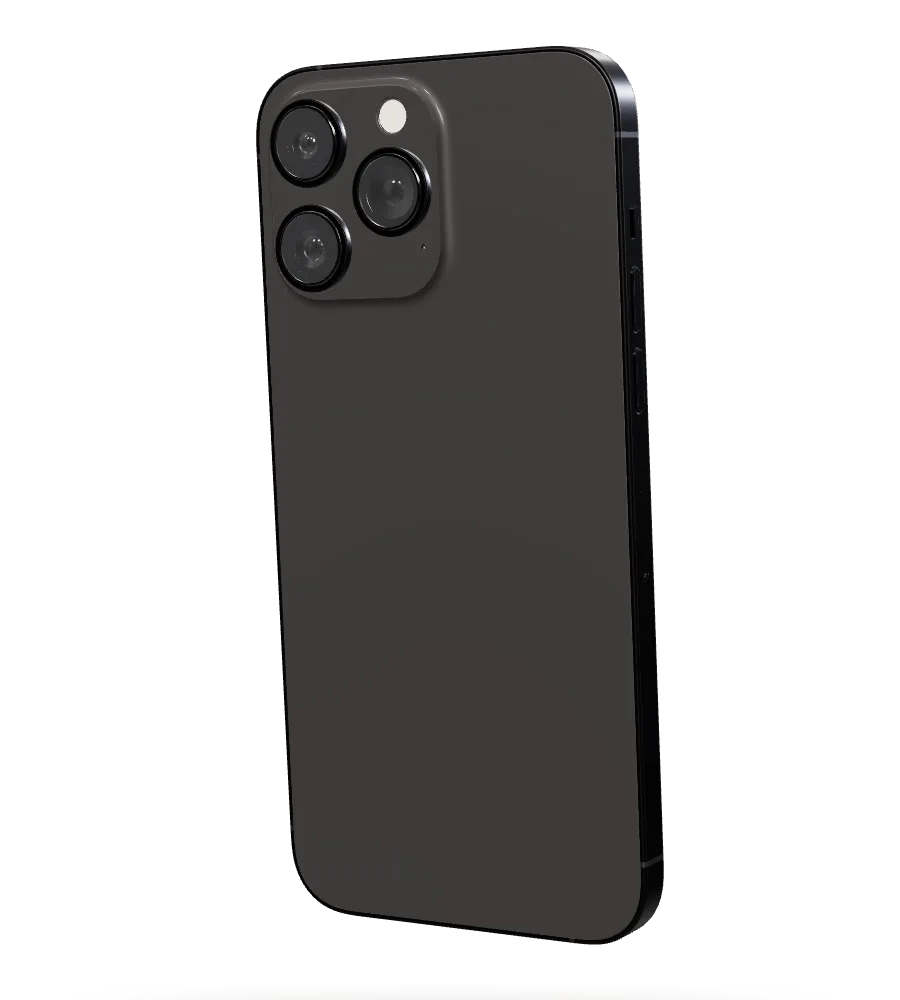
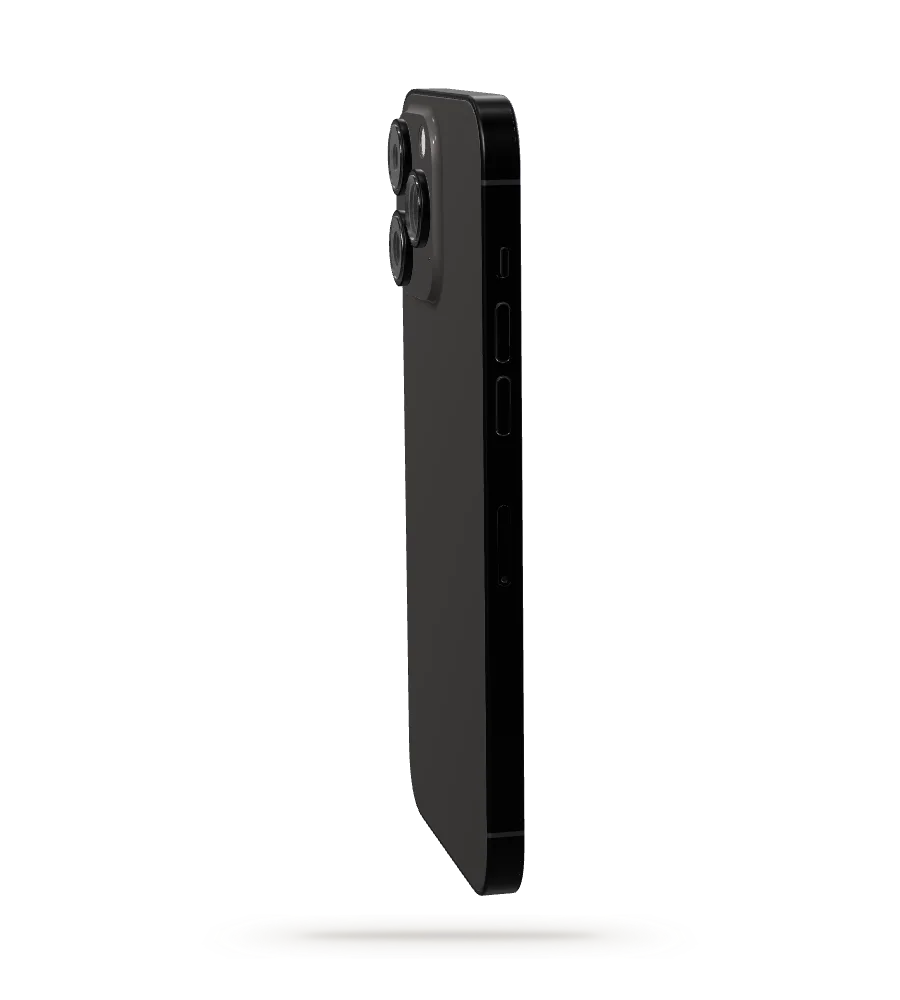
feat(home): Cartier-like fabric ground in the hero, smoother phone story
- FabricShade: replace the repeating curtain bands with long, soft,
  random shadow streaks from warped noise at two scales drifting in
  different directions, plus soft folds, over a fine paper/fabric grain
  tile; new matching still
- Phone story: softer spring so it glides to rest, a pre-roll so the
  phone is already turning as the section comes up the screen, wider
  overlapping phases and a slow camera drift so it never sits still
  between steps; new still at the pre-roll pose

Claude-Session: https://claude.ai/code/session_01RXhqBJTb3XXQtQqq3tabda

diff --git a/components/marketing/card3d/phoneScene.ts b/components/marketing/card3d/phoneScene.ts
@@ -280,6 +280,8 @@ export function createPhoneScene(canvas: HTMLCanvasElement, opts: { still?: numb
   let last = 0;
   let frame = 0;
 
+  let baseDist = 10;
+
   function resize() {
     const w = canvas.clientWidth;
     const h = canvas.clientHeight;
@@ -290,13 +292,23 @@ export function createPhoneScene(canvas: HTMLCanvasElement, opts: { still?: numb
     const half = Math.tan((camera.fov * Math.PI) / 360);
     const byHeight = (PH * 1.14) / (2 * half);
     const byWidth = (PH * 0.82) / (2 * half * camera.aspect);
-    camera.position.set(0, 0.15, Math.max(byHeight, byWidth));
-    camera.lookAt(0, 0, 0);
+    baseDist = Math.max(byHeight, byWidth);
     camera.updateProjectionMatrix();
     render();
   }
 
   function render() {
+    /* Before the story starts (p below 0, while the section is still
+       coming up the screen) the phone is already turning towards its
+       starting pose, so it's moving from the moment it appears and flows
+       straight into the story with no start. The camera also eases in a
+       little over the whole story, so the frame is never perfectly still
+       between steps. */
+    const pre = Math.min(0, p);
+    const along = clamp(p);
+    camera.position.set(0, 0.15 + pre * 0.4, baseDist * (1.06 - 0.06 * along - pre * 0.25));
+    camera.lookAt(0, pre * 0.3, 0);
+
     // 1. The card flies in on a curve, turning on all three axes as it
     //    comes, and taps the upper back of the phone (0 to 0.18). It rests
     //    there a beat, then sweeps off to the upper left (0.22 to 0.42)
@@ -305,7 +317,7 @@ export function createPhoneScene(canvas: HTMLCanvasElement, opts: { still?: numb
     const leave = soft(0.22, 0.42, p);
     const press = Math.sin(Math.PI * clamp((p - 0.16) / 0.07)) * 0.05;
     const hover = Math.sin(t * 1.1) * 0.025 * (1 - approach + leave);
-    const ax = curve(2.5, 1.5, 0.1, approach);
+    const ax = curve(2.5 - pre * 2, 1.5, 0.1, approach);
     const ay = curve(1.7, 0.5, 0.05, approach);
     const az = curve(1.8, 1.5, 0.72 - press, approach);
     card.group.position.set(
@@ -321,13 +333,13 @@ export function createPhoneScene(canvas: HTMLCanvasElement, opts: { still?: numb
     card.group.visible = leave < 0.999;
 
     // 2. The phone turns round from its back to its front as the screen
-    //    wakes (0.2 to 0.5), lifting a little on the way like it's picked
+    //    wakes (0.18 to 0.55), lifting a little on the way like it's picked
     //    up, then settles with a slow sway.
-    const reveal = soft(0.2, 0.5, p);
+    const reveal = soft(0.18, 0.55, p);
     const lift = Math.sin(Math.PI * reveal);
     const sway = Math.sin(t * 0.5) * 0.04;
-    turn.rotation.y = mix(Math.PI - 0.55, -0.22, reveal) + sway;
-    turn.rotation.x = mix(0.12, -0.06, reveal) - lift * 0.1 + Math.sin(t * 0.4) * 0.02;
+    turn.rotation.y = mix(Math.PI - 0.55, -0.22, reveal) + sway + pre * 2.4 + (along - 0.5) * 0.16;
+    turn.rotation.x = mix(0.12, -0.06, reveal) - lift * 0.1 + Math.sin(t * 0.4) * 0.02 - pre * 0.35;
     turn.rotation.z = mix(-0.05, 0.03, reveal) + lift * 0.04;
     turn.position.y = Math.sin(t * 0.7) * 0.03 + lift * 0.08;
     turn.position.z = lift * 0.25;
@@ -343,14 +355,14 @@ export function createPhoneScene(canvas: HTMLCanvasElement, opts: { still?: numb
     ripple.scale.setScalar(0.6 + r * 2.4);
     rippleMat.opacity = r > 0 && r < 1 ? (1 - r) * 0.7 : 0;
 
-    // 3. The profile scrolls down to the links (0.52 to 0.74).
-    const scroll = soft(0.52, 0.74, p);
+    // 3. The profile scrolls down to the links (0.48 to 0.8).
+    const scroll = soft(0.48, 0.8, p);
     const shot = screenMat.map;
     if (shot) shot.offset.y = mix(0, 1 - VIEW_H / SHOT_H, scroll);
 
     // 4. "Contact saved" grows out of the Dynamic Island and drops just
-    //    below it (0.78 to 0.92), all inside the screen, like iOS does.
-    const saved = soft(0.78, 0.92, p);
+    //    below it (0.8 to 0.95), all inside the screen, like iOS does.
+    const saved = soft(0.8, 0.95, p);
     const drop = settle(saved);
     pillMat.opacity = clamp(saved * 25);
     toastMat.opacity = soft(0.45, 1, saved);
@@ -373,7 +385,7 @@ export function createPhoneScene(canvas: HTMLCanvasElement, opts: { still?: numb
     /* Follow the scroll position on a critically damped spring: the story
        picks up speed gently, glides, and comes to rest without a bump, even
        when the page is scrolled in jumps (a mouse wheel's notches). */
-    const W0 = 5.2;
+    const W0 = 3.4;
     for (let i = 0; i < 2; i++) {
       const h = dt / 2;
       v += (W0 * W0 * (target - p) - 2 * W0 * v) * h;
@@ -388,7 +400,7 @@ export function createPhoneScene(canvas: HTMLCanvasElement, opts: { still?: numb
   return {
     ready: ready.then(() => render()),
     setProgress(v: number) {
-      target = clamp(v);
+      target = clamp(v, -1, 1);
     },
     start() {
       if (running) return;

diff --git a/components/marketing/FabricShade.tsx b/components/marketing/FabricShade.tsx
@@ -2,8 +2,10 @@
 
 import { useEffect, useRef, useState } from "react";
 
-/* Light through a sheer curtain, falling across the whole hero: soft folds
-   of shadow that drift and billow slowly and never quite repeat. A still
+/* Light falling across a fabric-like ground over the whole hero, the way
+   Cartier's pages look: long, soft, slightly slanted shadows, each one
+   different, drifting slowly in different directions so the pattern never
+   repeats, over a fine still grain (fabric-grain.webp). A still
    frame (public/home/fabric-shade.webp, rendered from this same shader at
    START) paints first and is the reduced-motion view; once the page is
    idle a tiny WebGL shader takes over and keeps it moving. It draws at a
@@ -22,20 +24,23 @@ uniform float t;
 float h(vec2 p){return fract(sin(dot(p,vec2(127.1,311.7)))*43758.5453);}
 float n(vec2 p){vec2 i=floor(p),f=fract(p);f=f*f*(3.-2.*f);
 return mix(mix(h(i),h(i+vec2(1,0)),f.x),mix(h(i+vec2(0,1)),h(i+vec2(1,1)),f.x),f.y);}
-float fbm(vec2 p){float v=0.,a=.5;for(int i=0;i<4;i++){v+=a*n(p);p=p*2.03+vec2(1.7,9.2);a*=.5;}return v;}
+float fbs(vec2 p){float v=0.,a=.5;for(int i=0;i<3;i++){v+=a*n(p);p=mat2(1.6,1.2,-1.2,1.6)*p+vec2(3.1,7.7);a*=.5;}return v/.875;}
 void main(){
   vec2 uv=gl_FragCoord.xy/r.y;
-  // The breeze: a slow warp that bends the folds and moves them about.
-  float w=fbm(vec2(uv.x*.9-t*.035,uv.y*.45+t*.012));
-  float w2=fbm(vec2(uv.x*.5+t*.02,uv.y*.3-t*.01)+w);
-  // Folds: long, slightly slanted bands, like a hanging curtain.
-  float x=uv.x+uv.y*.28+w2*1.15;
-  float f=sin(x*6.5+t*.16)*.55+sin(x*11.3-t*.11+w*3.)*.3+sin(x*23.-t*.07+w2*5.)*.15;
-  f=smoothstep(-.1,1.,f);
-  // Broad patches of light and shade drifting over the folds.
-  float l=smoothstep(.3,.75,fbm(uv*.75+vec2(t*.03,-t*.018)));
-  // Mostly light, with the folds and patches going properly dark.
-  float shade=smoothstep(.22,.95,f*.6+(1.-l)*.4);
+  // Shadows fall in long, soft streaks, a little off horizontal.
+  vec2 p=mat2(.985,-.17,.17,.985)*uv;
+  // The breeze: the streaks are bent and pushed about by slow, wandering
+  // noise, so no two are alike and the pattern never repeats.
+  vec2 w=vec2(fbs(p*.45+vec2(t*.018,-t*.011)),fbs(p*.45+vec2(5.2-t*.014,1.3+t*.009)));
+  vec2 q=p+(w-.5)*vec2(.9,.35);
+  // Broad soft shadows, stretched along the streak direction.
+  float s1=fbs(vec2(q.x*.28-t*.024,q.y*1.5+t*.005));
+  // Narrower streaks drifting the other way, at a different pace.
+  float s2=fbs(vec2(q.x*.4+t*.016,q.y*3.2-t*.007)+3.7);
+  // Soft folds in the fabric: gentle ridges, never hard lines.
+  float c=1.-abs(2.*fbs(vec2(q.x*.35-t*.008,q.y*5.)+w)-1.);
+  float shade=smoothstep(.4,.82,s1)*.6+smoothstep(.47,.83,s2)*.32+smoothstep(.75,1.,c)*.18;
+  shade=smoothstep(.04,.9,shade);
   gl_FragColor=vec4(vec3(1.-shade),1.);
 }`;
 
@@ -140,11 +145,16 @@ export default function FabricShade() {
   }, []);
 
   return (
-    <div aria-hidden className="fabric-shade pointer-events-none absolute inset-0">
-      <canvas
-        ref={canvasRef}
-        className={`h-full w-full transition-opacity duration-1000 ${live ? "opacity-100" : "opacity-0"}`}
-      />
+    <div aria-hidden className="pointer-events-none absolute inset-0">
+      <div className="fabric-shade absolute inset-0">
+        <canvas
+          ref={canvasRef}
+          className={`h-full w-full transition-opacity duration-1000 ${live ? "opacity-100" : "opacity-0"}`}
+        />
+      </div>
+      {/* The weave: a fine, still grain over everything, so the ground reads
+          as a material rather than a flat colour. */}
+      <div className="fabric-grain absolute inset-0" />
     </div>
   );
 }

diff --git a/components/marketing/PhoneStory.tsx b/components/marketing/PhoneStory.tsx
@@ -24,6 +24,10 @@ const STEPS = [
   },
 ];
 
+// How far into its turn the phone starts, in story progress, before the
+// section reaches the top of the screen.
+const PRE_ROLL = 0.3;
+
 /* Splits text into words, each in its own clipping mask, so a step's words
    can rise into view one after another (the mask-word rules in
    globals.css). The masks are for looks only: the words read as one line. */
@@ -62,12 +66,19 @@ export default function PhoneStory() {
     let visible = false;
     let raf = 0;
 
-    // Progress: 0 when the section's top reaches the top of the screen,
-    // 1 when its bottom reaches the bottom.
+    /* Progress: 0 when the section's top reaches the top of the screen,
+       1 when its bottom reaches the bottom. While the section is still
+       coming up the screen it runs from -PRE_ROLL to 0, so the phone is
+       already turning the moment it appears and flows into the story
+       without a start. */
     const progress = () => {
       const r = section.getBoundingClientRect();
       const span = r.height - window.innerHeight;
-      return span > 0 ? Math.min(1, Math.max(0, -r.top / span)) : 0;
+      if (span <= 0) return 0;
+      const raw = -r.top / span;
+      if (raw >= 0) return Math.min(1, raw);
+      const entering = window.innerHeight / span;
+      return -PRE_ROLL * Math.min(1, -raw / entering);
     };
 
     const onScroll = () => {
@@ -75,7 +86,7 @@ export default function PhoneStory() {
       raf = requestAnimationFrame(() => {
         const p = progress();
         scene?.setProgress(p);
-        setActive(Math.min(STEPS.length - 1, Math.floor(p * STEPS.length * 0.999)));
+        setActive(Math.min(STEPS.length - 1, Math.floor(Math.max(0, p) * STEPS.length * 0.999)));
       });
     };
 

diff --git a/app/globals.css b/app/globals.css
@@ -268,8 +268,16 @@ p {
    over without a jump. */
 .fabric-shade {
   background: url("/home/fabric-shade.webp") left bottom / auto 100% no-repeat;
-  opacity: 0.32;
+  opacity: 0.4;
   mix-blend-mode: multiply;
+}
+
+/* A tile of fine grain and short fibres, mid-grey on average, so soft-light
+   only roughens the ground without darkening it. */
+.fabric-grain {
+  background: url("/home/fabric-grain.webp") 0 0 / 256px 256px repeat;
+  opacity: 0.55;
+  mix-blend-mode: soft-light;
 }
 
 @media (prefers-reduced-motion: no-preference) {

diff --git a/CLAUDE.md b/CLAUDE.md
@@ -72,14 +72,17 @@ fail or are skipped, and everything else works.
 ## What's built
 
 **Marketing homepage** (`app/(marketing)/page.tsx`): Hero (3D card that
-casts a soft shadow on an invisible wall behind it; full-bleed moving
-"light through a sheer curtain" shadows from `FabricShade.tsx`, a tiny
-plain-WebGL shader whose still `public/home/fabric-shade.webp` paints first
-and is preloaded because it's the LCP element; the hero runs up behind the
+casts a soft shadow on an invisible wall behind it; a full-bleed
+Cartier-like fabric ground from `FabricShade.tsx`: long, soft, random
+shadow streaks drifting from a tiny plain-WebGL noise shader, whose still
+`public/home/fabric-shade.webp` paints first and is preloaded, plus a fine
+grain tile `public/home/fabric-grain.webp`; the hero runs up behind the
 navbar, which is see-through only at the top of the homepage; it stops
 short of the fold so HowItWorks' darker rounded band peeks in), HowItWorks (three
 equal numbered steps), PhoneStory (sticky 3D iPhone; the scene follows the
-scroll on a critically damped spring, the canvas has feathered edges
+scroll on a soft critically damped spring, starts turning while the section
+is still coming up the screen (`PRE_ROLL`, negative progress) and keeps a
+slow camera drift so it never sits still between steps, the canvas has feathered edges
 (`.feather`), the "Contact saved" note grows out of the Dynamic Island, and
 step text rises word by word out of clipping masks, `.mask-word`),
 MakeItYours (live preview: the client's name on the front, a real QR code
